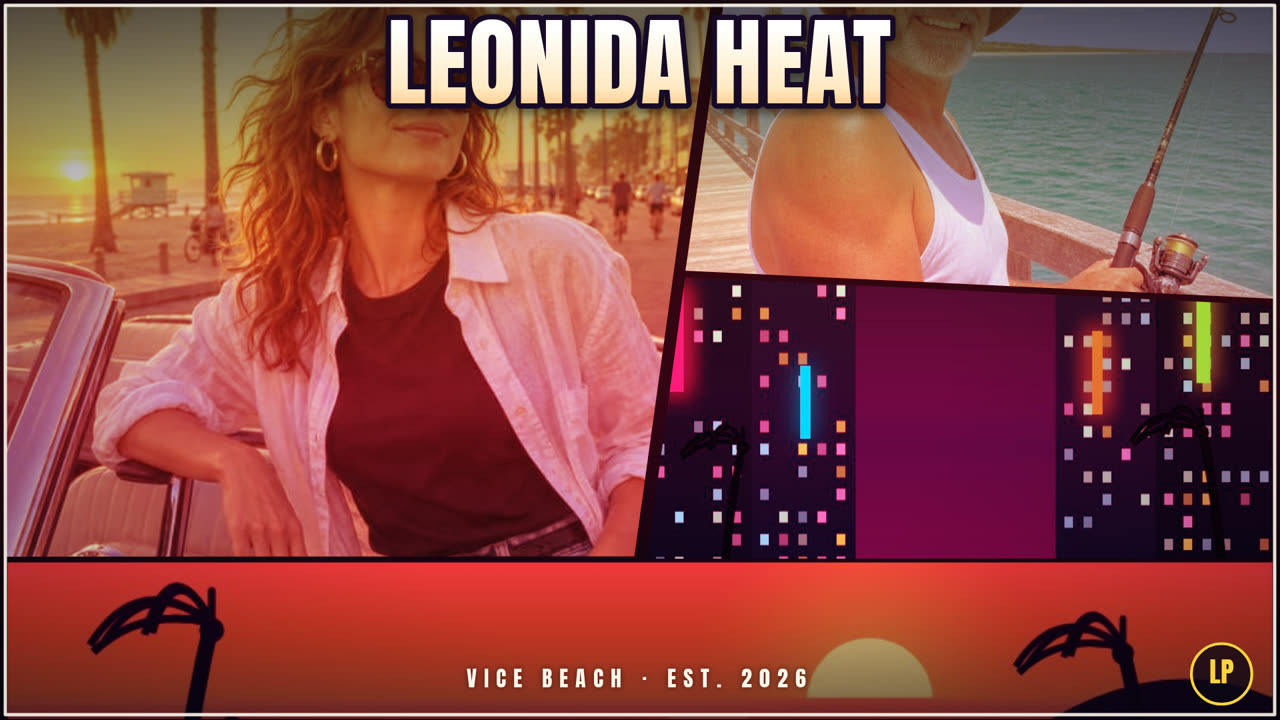
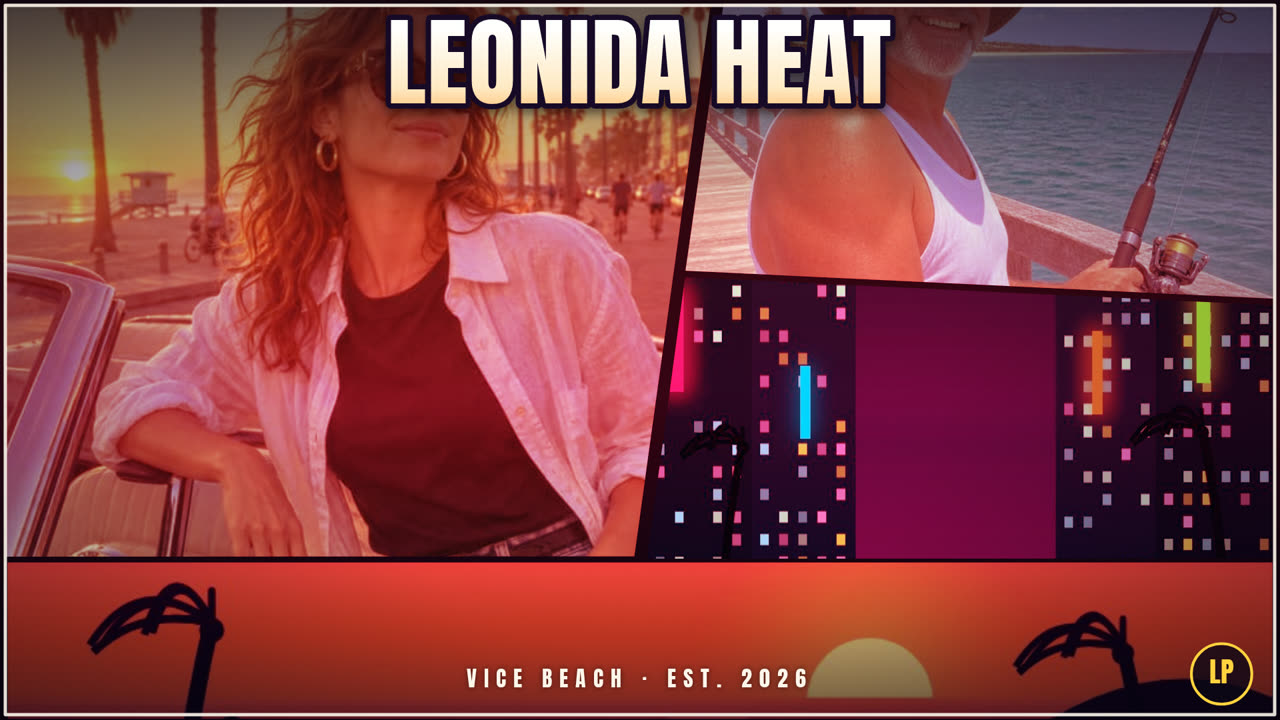
Polish the grade and finish: richer Sunset sky-to-horizon gradient with a corner vignette, plus a seeded film grain over every grade

Changed region(s): [[0.25, 0.0306, 1.0, 0.4583], [0.0, 0.0306, 0.25, 0.4889], [0.9375, 0.4583, 0.9688, 0.4889]]

diff --git a/app/src/render.js b/app/src/render.js
@@ -81,7 +81,21 @@ function applyGrade(ctx, gradeId, width, height) {
   };
   if (gradeId === 'sunset') {
     wash([[0, '#ff9a3c'], [0.55, '#ff2e88'], [1, '#2a0a44']], 'soft-light', 0.9);
-    wash([[0, '#ffd23f'], [1, '#ff5e3a']], 'overlay', 0.28);
+    // Sky-to-horizon grade: deep magenta settles over the top sky band
+    // and melts into warm amber at the horizon, so the poster glows like
+    // late golden hour instead of wearing one flat tint.
+    wash([[0, '#a81268'], [0.62, '#ff7a30'], [0.8, '#ffb347'], [1, '#3d0a33']], 'overlay', 0.34);
+    // A soft radial vignette pulls the frame corners down into dusk,
+    // throwing the caption and the hero panel forward at a glance.
+    const v = ctx.createRadialGradient(
+      width / 2, height * 0.46, Math.min(width, height) * 0.36,
+      width / 2, height * 0.5, Math.max(width, height) * 0.74,
+    );
+    v.addColorStop(0, 'rgba(24,2,26,0)');
+    v.addColorStop(0.72, 'rgba(24,2,26,0.18)');
+    v.addColorStop(1, 'rgba(24,2,26,0.52)');
+    ctx.fillStyle = v;
+    ctx.fillRect(0, 0, width, height);
   } else if (gradeId === 'neon') {
     wash([[0, '#00e5ff'], [0.5, '#7a5cff'], [1, '#ff00c8']], 'soft-light', 0.95);
     wash([[0, '#00fff2'], [1, '#ff2ea6']], 'overlay', 0.22);
@@ -99,6 +113,49 @@ function applyGrade(ctx, gradeId, width, height) {
   v.addColorStop(1, 'rgba(5,2,12,0.42)');
   ctx.fillStyle = v;
   ctx.fillRect(0, 0, width, height);
+
+  applyFilmGrain(ctx, width, height);
+}
+
+// A fixed grain tile, generated once from a seeded PRNG (mulberry32) so
+// every render of the same cover is byte-identical: the grain is part of
+// the artwork, never a dice roll between the preview and the export.
+let grainTile = null;
+function makeGrainTile() {
+  const size = 128;
+  const tile = document.createElement('canvas');
+  tile.width = size;
+  tile.height = size;
+  const tctx = tile.getContext('2d');
+  const img = tctx.createImageData(size, size);
+  let s = 0x2f6e2b1;
+  const next = () => {
+    s = (s + 0x6d2b79f5) | 0;
+    let t = Math.imul(s ^ (s >>> 15), 1 | s);
+    t = (t + Math.imul(t ^ (t >>> 7), 61 | t)) ^ t;
+    return ((t ^ (t >>> 14)) >>> 0) / 4294967296;
+  };
+  for (let i = 0; i < img.data.length; i += 4) {
+    const g = 96 + Math.floor(next() * 96); // mid-grey grain, never pure black or white
+    img.data[i] = g;
+    img.data[i + 1] = g;
+    img.data[i + 2] = g;
+    img.data[i + 3] = 255;
+  }
+  tctx.putImageData(img, 0, 0);
+  return tile;
+}
+
+// A whisper of film grain over the graded photos, laid down before the
+// lettering so the type stays clean: the panels feel printed, not pasted.
+function applyFilmGrain(ctx, width, height) {
+  if (!grainTile) grainTile = makeGrainTile();
+  ctx.save();
+  ctx.globalCompositeOperation = 'overlay';
+  ctx.globalAlpha = 0.07;
+  ctx.fillStyle = ctx.createPattern(grainTile, 'repeat');
+  ctx.fillRect(0, 0, width, height);
+  ctx.restore();
 }
 
 function legibilityBands(ctx, width, height) {
